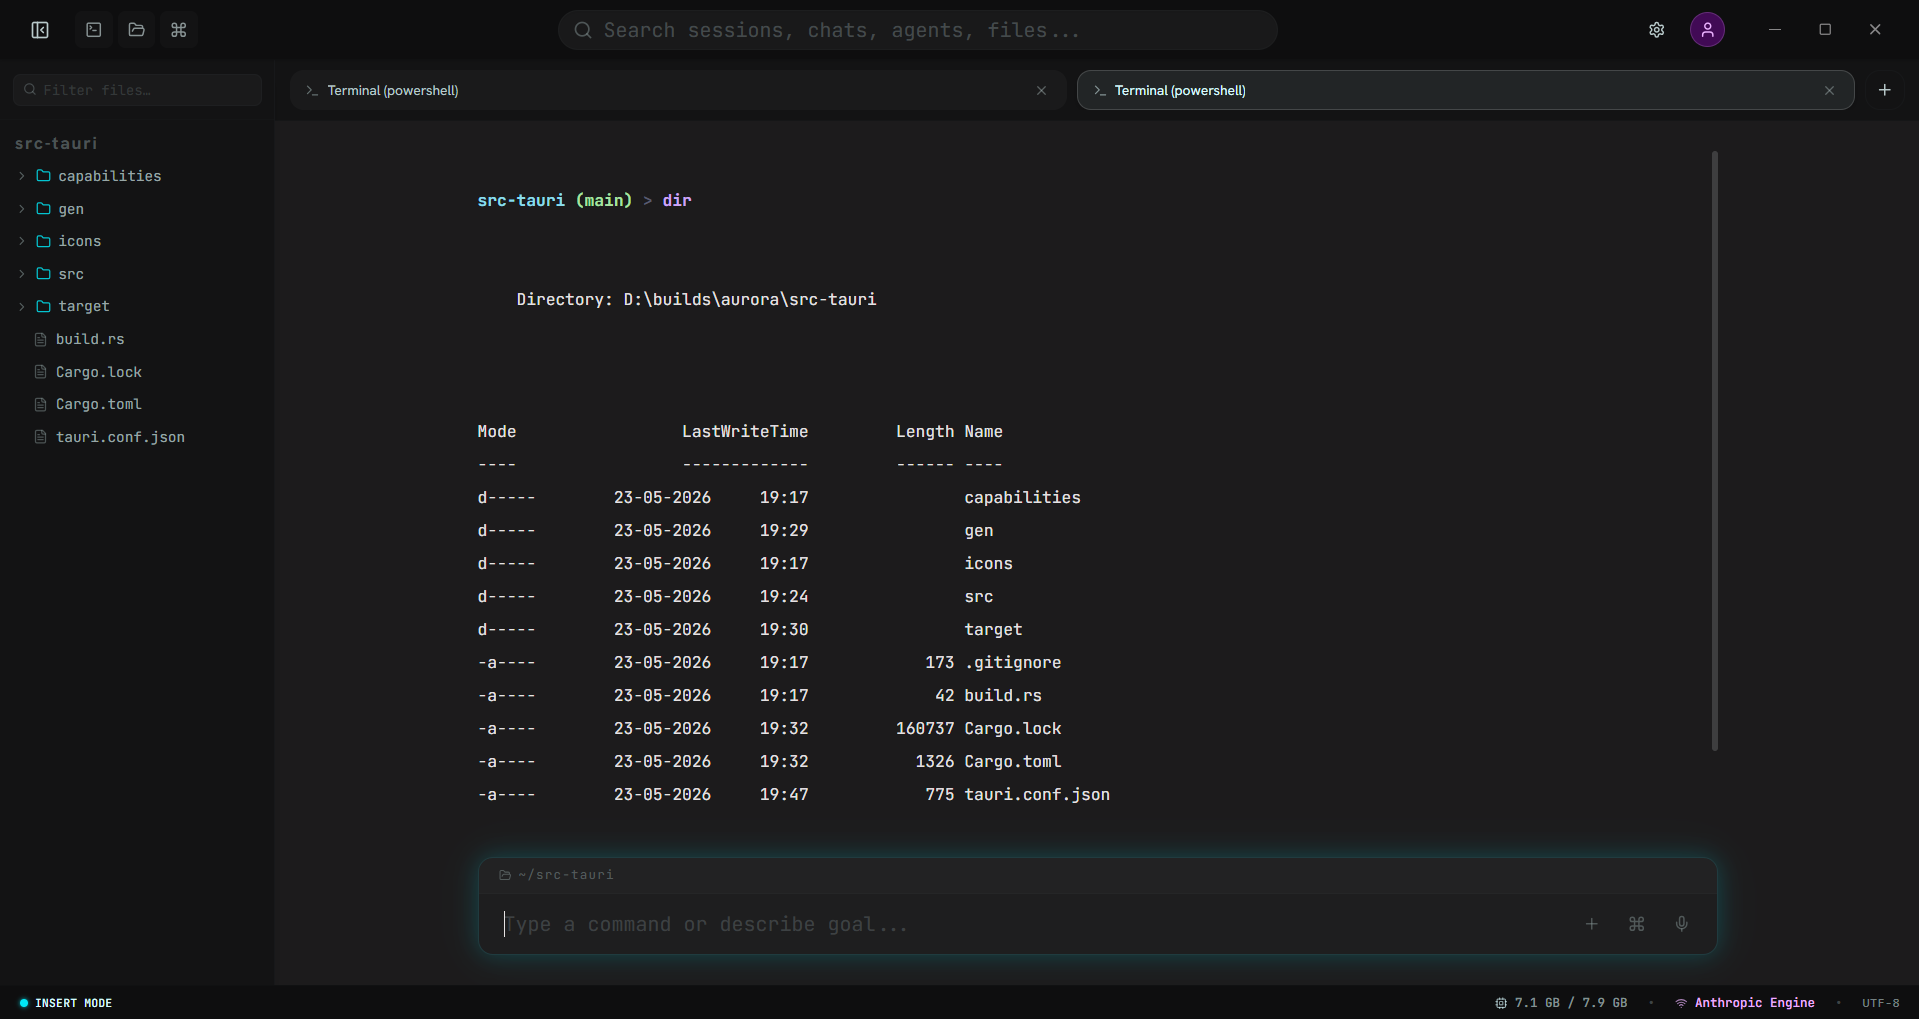
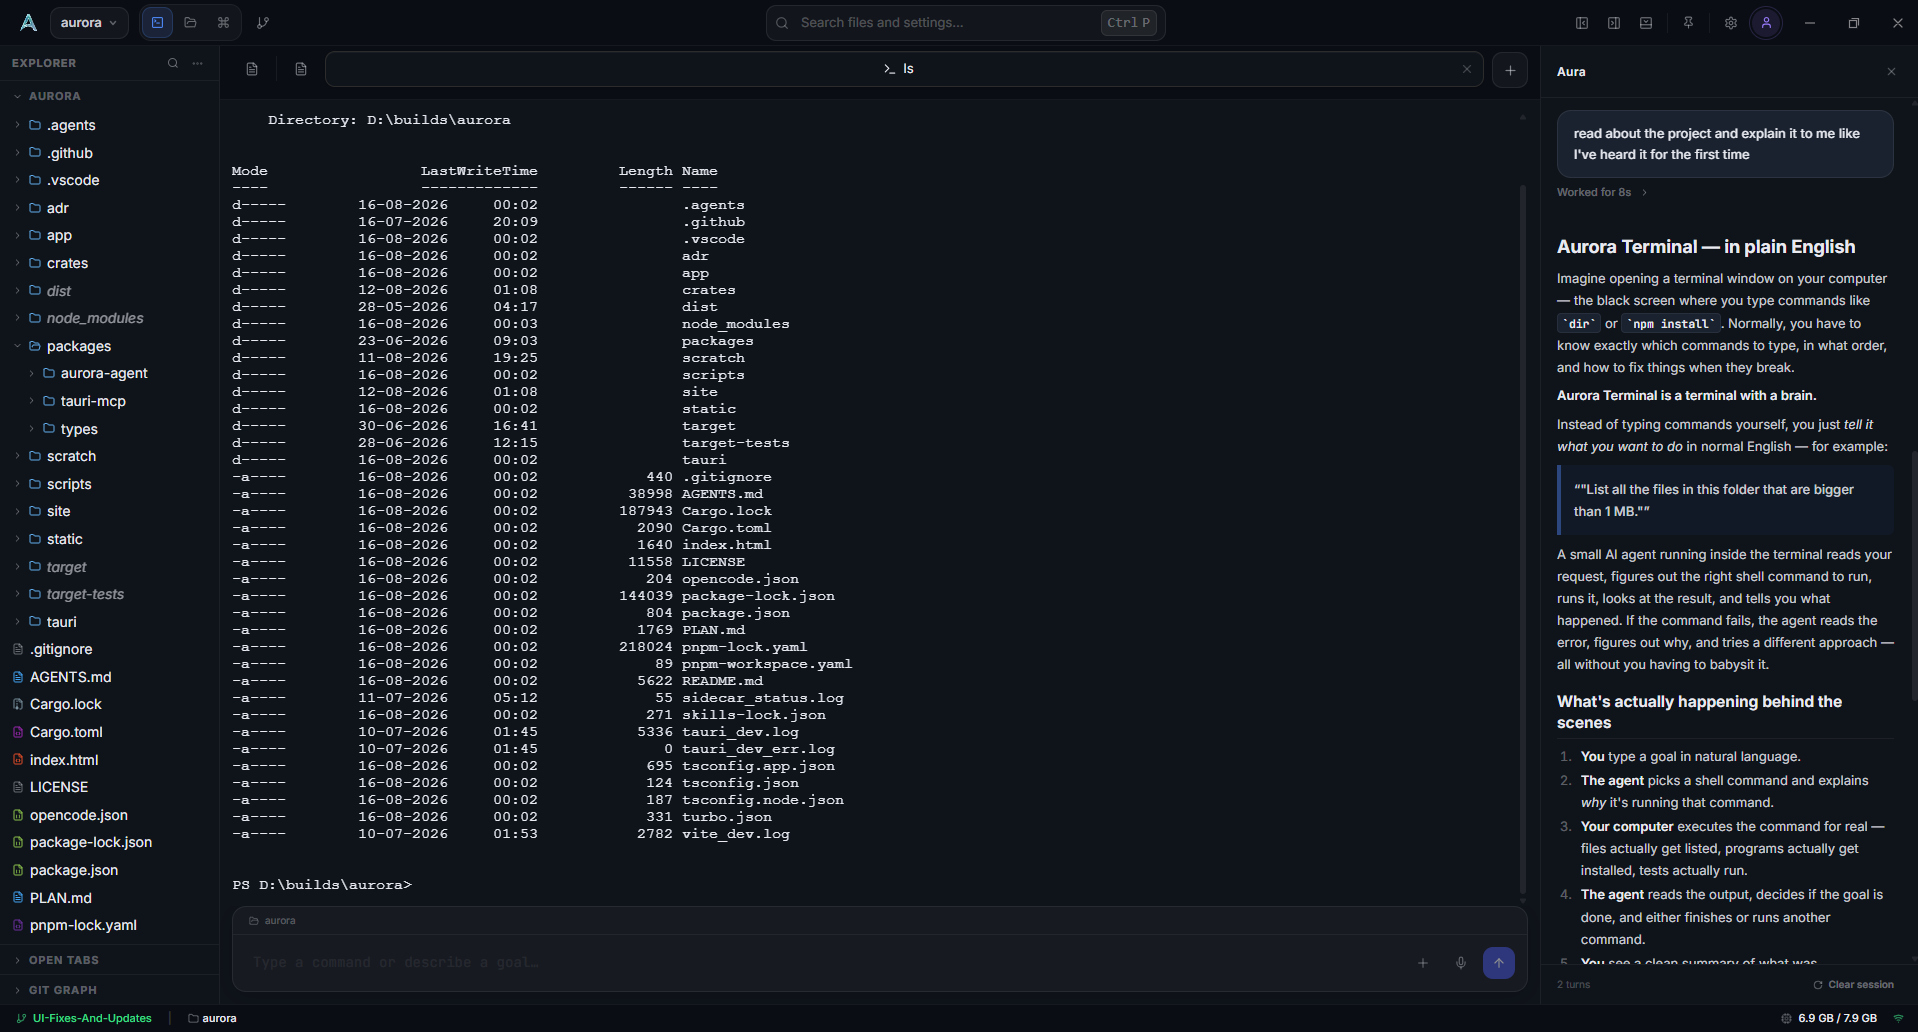
feat: updated screenshots

diff --git a/app/src/views/AgentView.tsx b/app/src/views/AgentView.tsx
@@ -109,7 +109,6 @@ export function AgentView() {
     skipPending,
     submitAnswer,
     chainNodes,
-    thinking,
     stepCount,
     maxSteps,
     activeSubagent,
@@ -492,7 +491,6 @@ export function AgentView() {
                           isThinking={isLastTurn && isThinking}
                           isLastTurn={isLastTurn}
                           chainNodes={turn.assistant?.chainNodes || (isLastTurn ? chainNodes : [])}
-                          thinking={isLastTurn ? thinking : undefined}
                           durationSecs={0}
                           stepCount={isLastTurn ? stepCount : 0}
                           maxSteps={isLastTurn ? maxSteps : 0}
